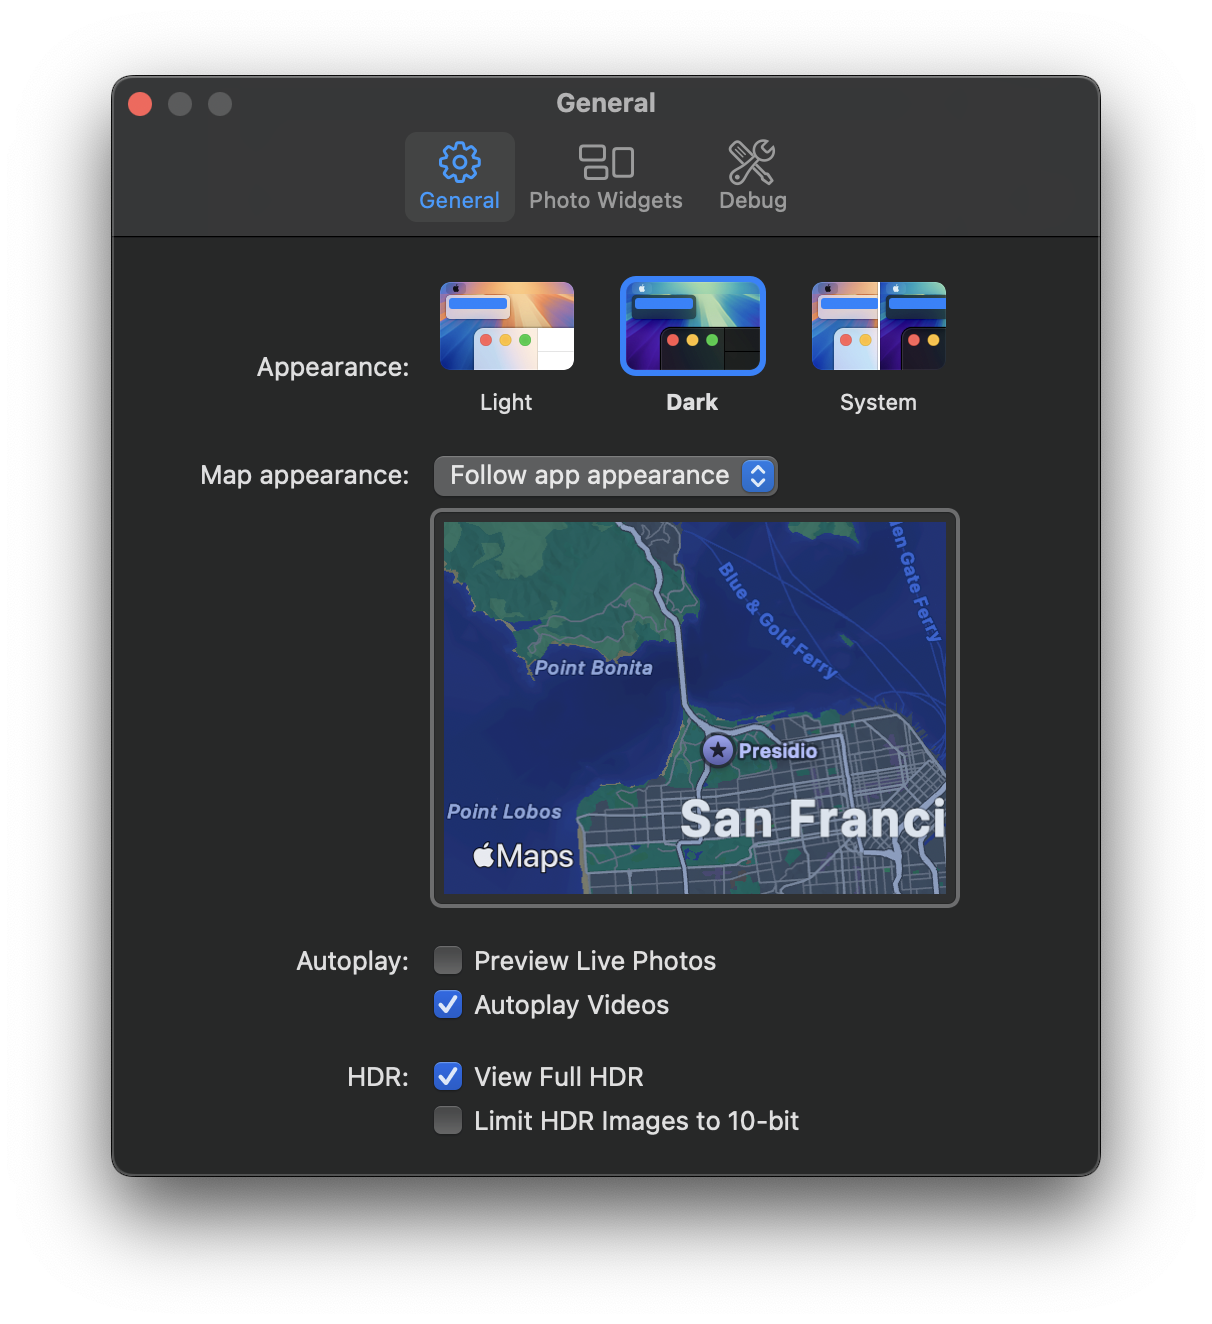
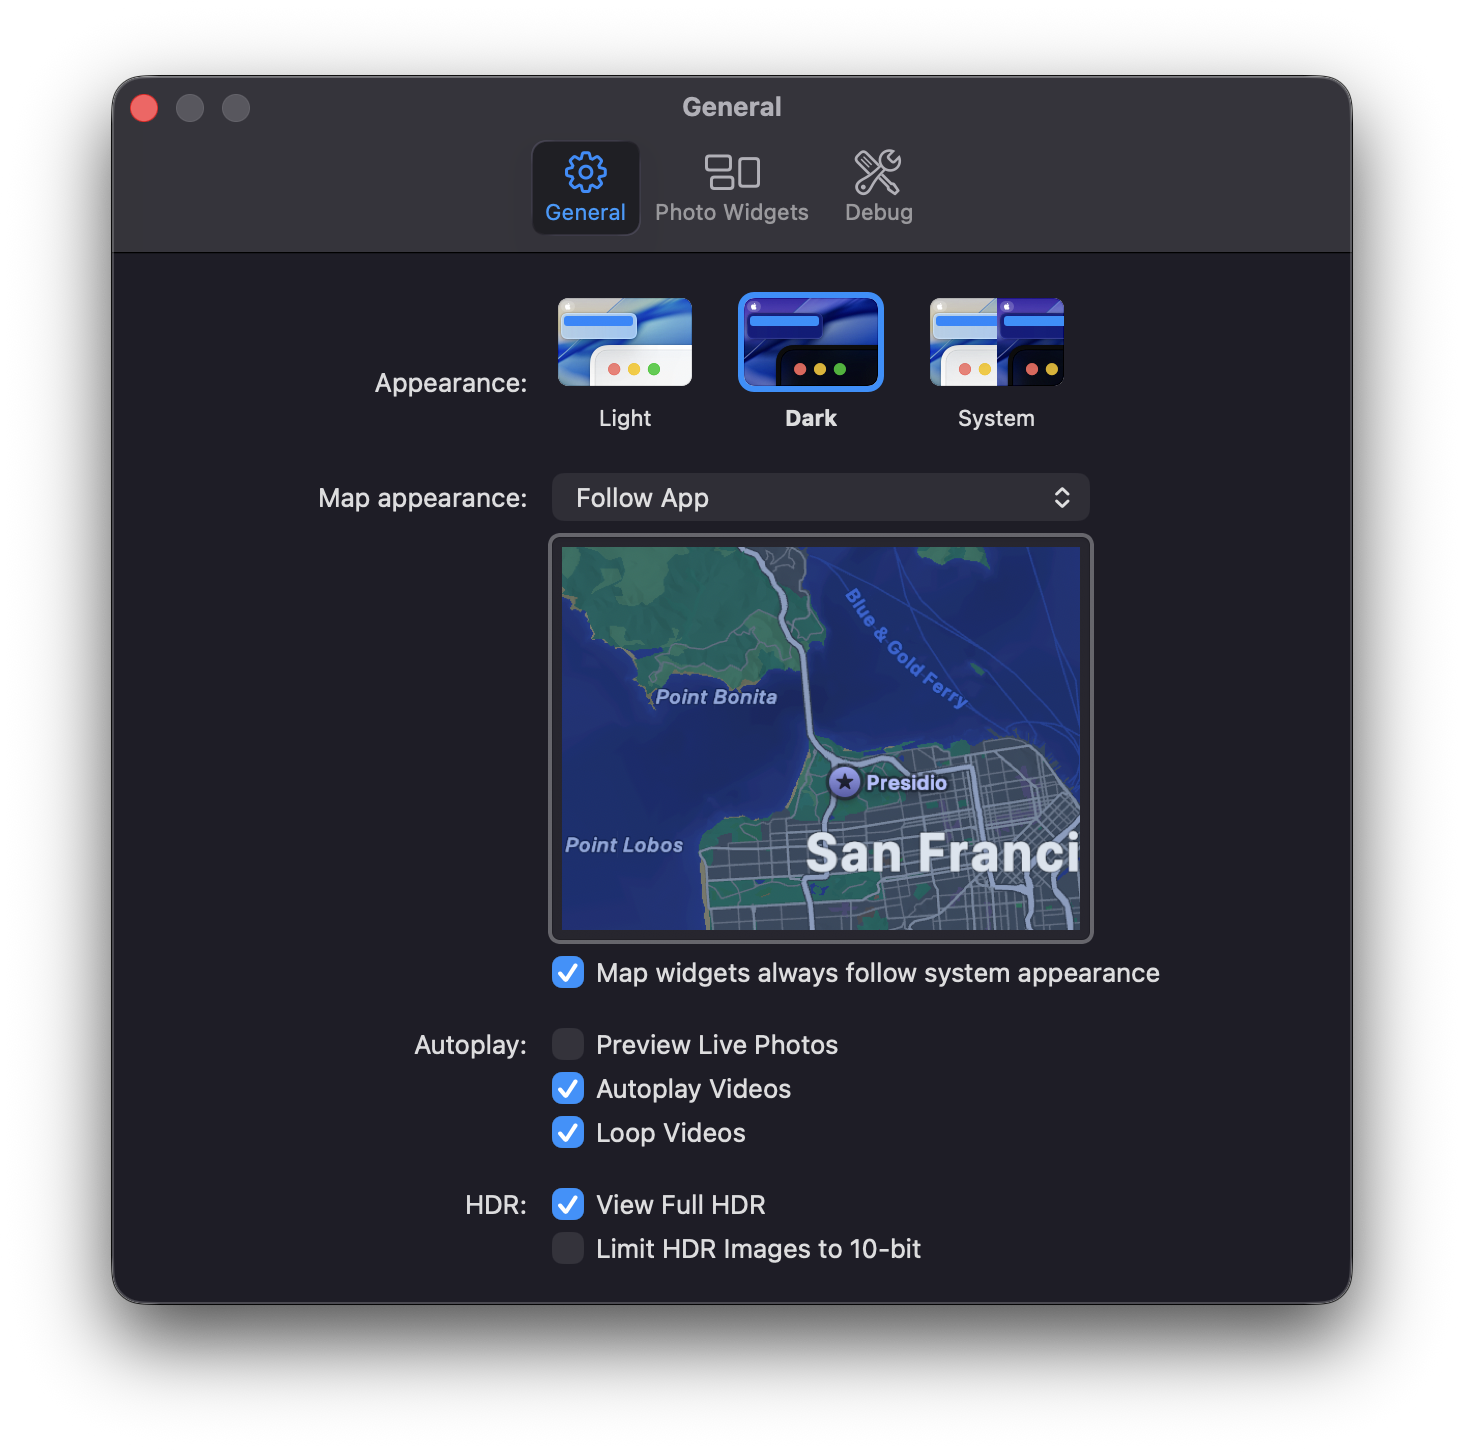
Tweak animations

Changed region(s): [[0.0611, 0.031, 0.9464, 0.929], [0.1526, 0.3406, 0.7937, 0.6813]]

diff --git a/Sources/LNSettingsWindowController/LNSettingsWindowController.m b/Sources/LNSettingsWindowController/LNSettingsWindowController.m
@@ -213,7 +213,10 @@ static unsigned short const CCNEscapeKey = 53;
 	
 	self.window.title = viewController.settingsTitle;
 	
-	viewController.view.alphaValue = 0;
+	if(animate)
+	{
+		viewController.view.alphaValue = 0;
+	}
 	viewController.view.autoresizingMask = NSViewWidthSizable | NSViewHeightSizable;
 	
 	if(self.allowsVibrancy)
@@ -230,28 +233,20 @@ static unsigned short const CCNEscapeKey = 53;
 		self.window.contentView = view;
 	}
 	
-	if(animate == NO)
-	{
-		[viewController.view setAlphaValue:1.0];
-	}
-	
-	[self.window setFrame:newWindowFrame display:YES animate:animate];
-	
-	void (^handler)(void) = ^{
-		if(animate)
-		{
-			[viewController.view setAlphaValue:1.0];
-		}
-		self.activeViewController = viewController;
-	};
-	
 	if(animate)
 	{
-		dispatch_after(dispatch_time(DISPATCH_TIME_NOW, (int64_t)(animate * [self.window animationResizeTime:newWindowFrame] * NSEC_PER_SEC)), dispatch_get_main_queue(), handler);
+		[NSAnimationContext runAnimationGroup:^(NSAnimationContext * _Nonnull context) {
+			context.duration = 0.5 * [self.window animationResizeTime:newWindowFrame];
+			[self.window.animator setFrame:newWindowFrame display:YES];
+		} completionHandler:^{
+			viewController.view.alphaValue = 1.0;
+			self.activeViewController = viewController;
+		}];
 	}
 	else
 	{
-		handler();
+		[self.window setFrame:newWindowFrame display:YES];
+		self.activeViewController = viewController;
 	}
 }
 

diff --git a/README.md b/README.md
@@ -2,7 +2,11 @@
 
 `LNSettingsWindowController` is an `NSWindowController` subclass that manages your custom view controllers for handling app settings.
 
-<p align="center"><picture><source srcset="./Supplements/Settings.png" media="(prefers-color-scheme: light)" width="606"/><source srcset="./Supplements/Settings-Dark.png"  media="(prefers-color-scheme: dark) width="606""/><img src="./Supplements/Settings.png" width="606"/></picture></p>
+<picture>
+  <source media="(prefers-color-scheme: dark)" srcset="./Supplements/Settings-dark.png">
+  <source media="(prefers-color-scheme: light)" srcset="./Supplements/Settings.png">
+  <img src="./Supplements/Settings.png">
+</picture>
 
 ## Adding to Your Project
 